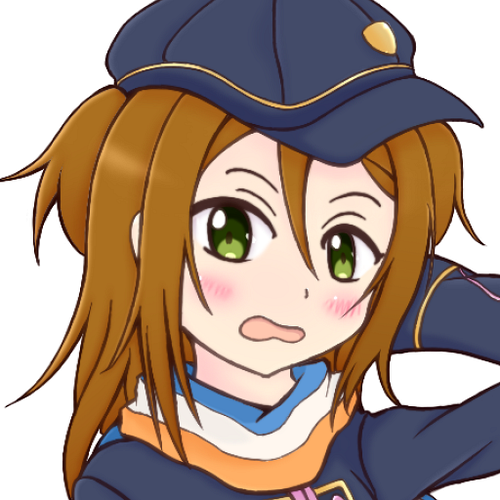
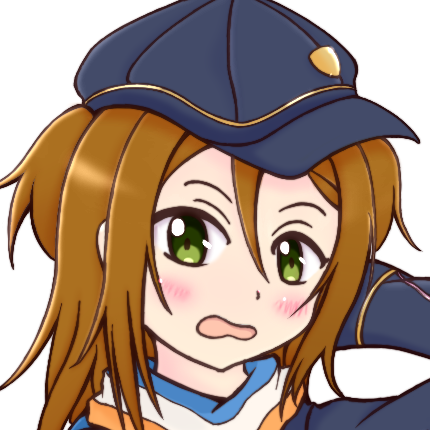
二階堂マリ修正
ハイライトミスつらすぎた…

diff --git a/public_html/history.html b/public_html/history.html
@@ -1,3 +1,6 @@
+15/11/19
+[sketch]
+イラストにミスがあったので修正しました
 15/11/13
 [sketch]
 お絵かき追加、トップ絵変更しました
